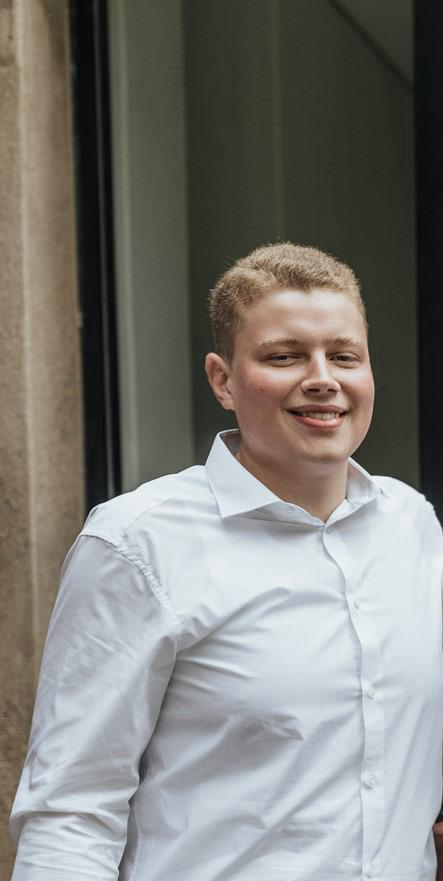
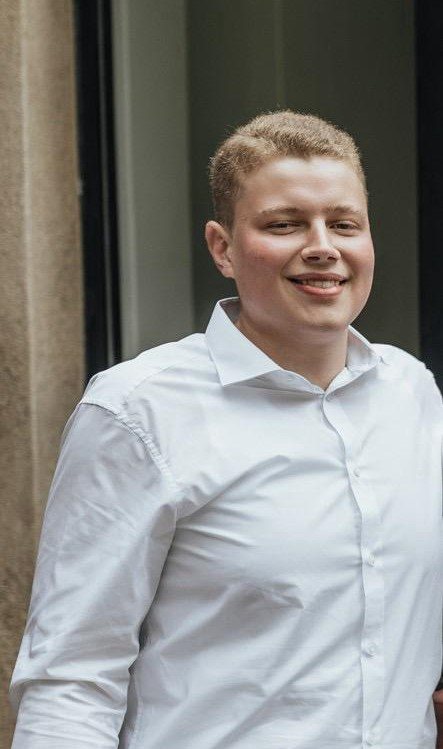
Layout Improvements

diff --git a/Main.html b/Main.html
@@ -12,36 +12,59 @@
         <h1>Welcome to My Portfolio</h1>
         <nav>
             <ul>
-                <li><a href="#Welcome">Welcome</a></li>
+                <li><a href="#welcome">Welcome</a></li>
                 <li><a href="#about">About</a></li>
-                <li><a href="#resume">Resume</a></li>
                 <li><a href="#skills">Skills</a></li>
                 <li><a href="#traits">Personal Traits</a></li>
                 <li><a href="#projects">Projects</a></li>
+                <li><a href="#resume">Resume</a></li>
                 <li><a href="#contact">Contact Me</a></li>
             </ul>
         </nav>
     </header>
 
-    <section id="home">
+
+    <section id="welcome">
         <h2><u>Welcome</u></h2>
         <p>
             Hi there👋. Welcome to my personal portfolio. Here you can learn more about who I am and what I enjoy working on and learning.
         </p>
     </section>
 
+
     <section id="about">
         <h2><u>More About Me</u></h2>
         <p1>
-            My name is Andre Pretorius. I am from Potchefstroom, South Africa. I am currently completing my final year of a BSc in Information Technology. I am an extremely hardworking and self-disciplined individual, striving to excel in what I do. I consider myself to be a friendly, trustworthy, and open-hearted person with excellent communication skills. I hold honesty, respect, and loyalty in high regard.
-            <img src="Profile Picture.jpg" style="width:400px;height:600px;">
+            <div class="container">
+                <div class="text">
+                    My name is Andre Pretorius. I am from Potchefstroom, South Africa. I am currently completing my final year of a BSc in Information Technology. I am an extremely hardworking and self-disciplined individual, striving to excel in what I do. I consider myself to be a friendly, trustworthy, and open-hearted person with excellent communication skills. I hold honesty, respect, and loyalty in high regard.
+                </div>
+            
+                <div class="image">
+                    <img align=right src="Profile Picture.jpg">
+                </div>
+            </div>
         </p1>
     </section>
+
+
+    <section id="skills">
+        <h2><u>Skills</u></h2>
+        <p>Edit</p>
+    </section>
+
+
+    <section id="traits">
+        <h2><u>Personal Traits</u></h2>
+        <p>Edit</p>
+    </section>
+
 
     <section id="projects">
         <h2><u>My Personal Projects</u></h2>
         <p>Edit</p>
     </section>
+
 
     <section id="resume">
         <h2><u>My Resume</u></h2>
@@ -50,6 +73,10 @@
             <button>Andre Pretorius Curriculum Vitae</button>
         </a>
     </section>
+
+
+
+
 
     <section id="contact">
         <h2><u>My Contact Details</u></h2>

diff --git a/style.css b/style.css
@@ -1,5 +1,5 @@
 body {
-    font-family: Arial,sans-serif;
+    font-family: Verdana, Geneva, Tahoma, sans-serif;
     margin: 0;
     padding: 0;
     background-color: #f4f4f4;
@@ -68,6 +68,18 @@ p {
     text-align: center;
 }
 
-p1 {
+.container {
+    display: grid;
+    align-items: center;
+    grid-template-columns: 1fr 1fr;
+    column-gap: 5px;
+}
+
+.text {
     text-align: left;
+}
+
+.image {
+    max-width: 100%;
+    max-height: 100%;
 }
